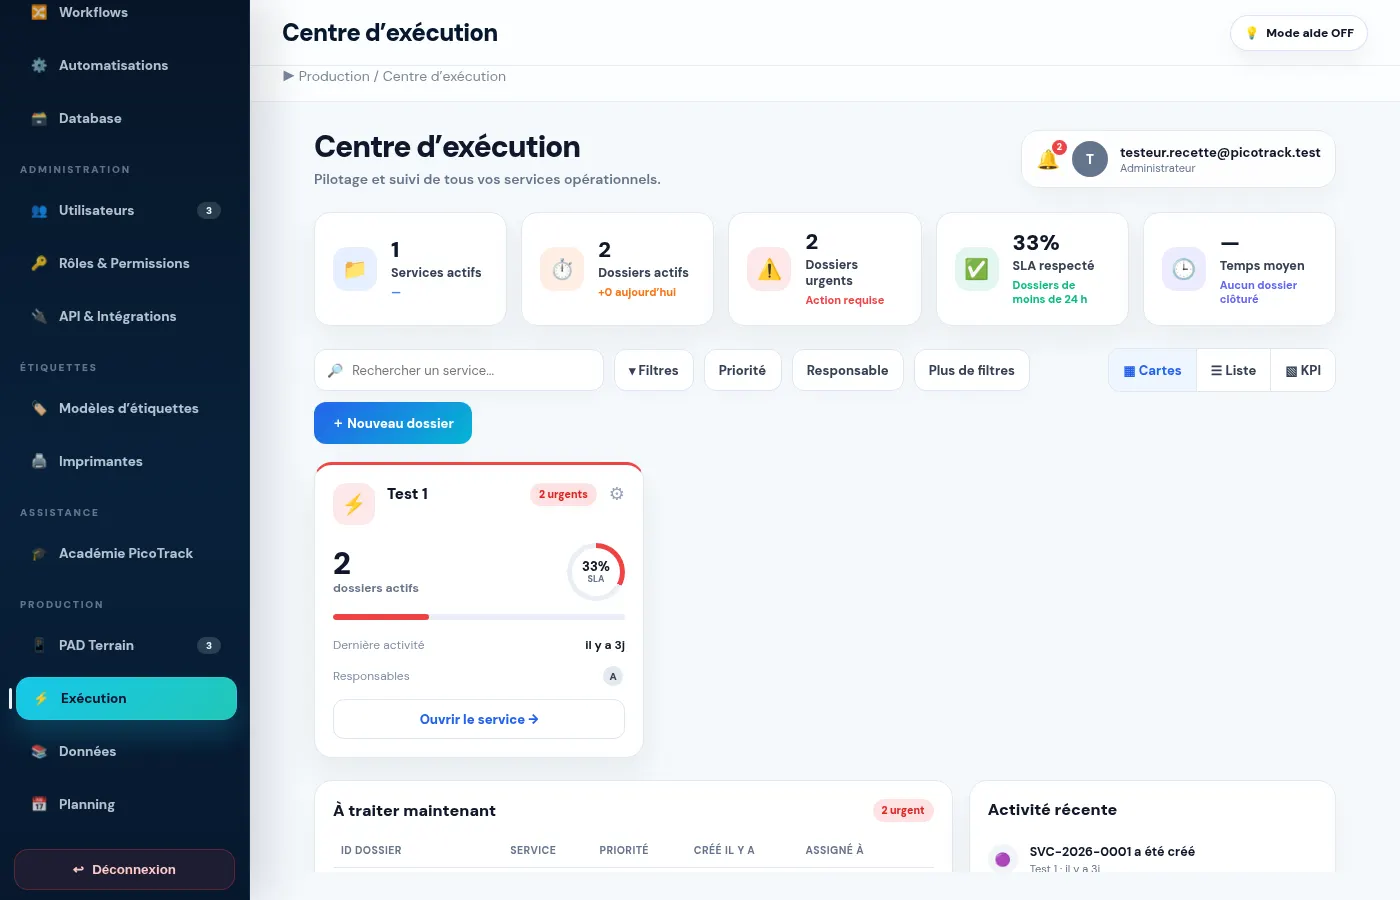
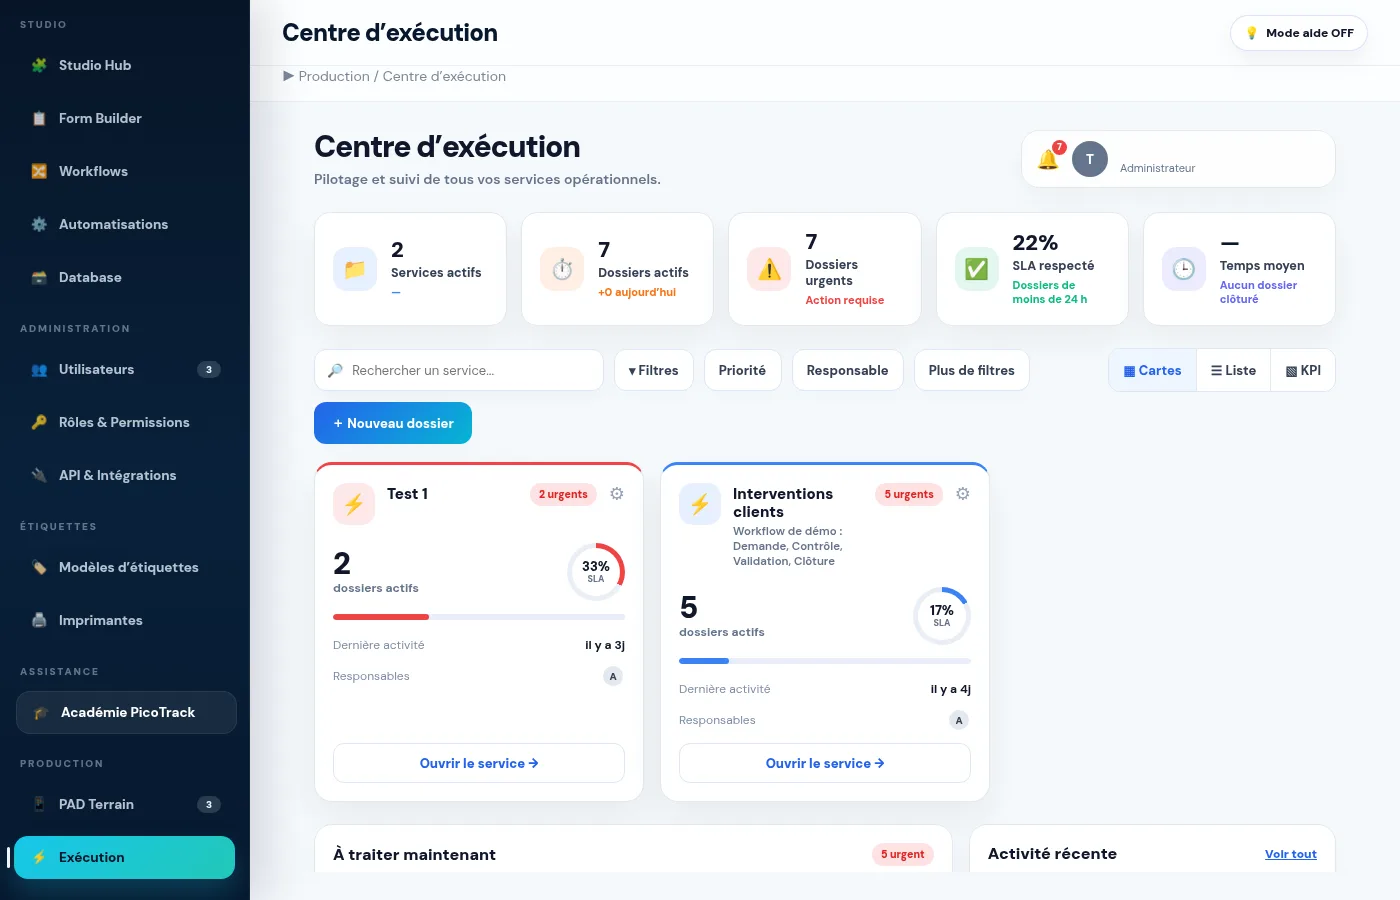
Vitrine: capture workflow 4 étapes, centre d'exécution sans e-mail, hébergeur GitHub Pages

diff --git a/index.html b/index.html
@@ -43,6 +43,7 @@
 <figure><img class="shot" loading="lazy" src="assets/6-pdf-1.webp" alt="Export PDF"><figcaption>L'export PDF d'une saisie.</figcaption></figure>
 <figure><img class="shot" loading="lazy" src="assets/7-planning-mois.webp" alt="Planning mensuel"><figcaption>Le planning opérationnel en vue mois, avec les rendez-vous issus des formulaires.</figcaption></figure>
 <figure><img class="shot" loading="lazy" src="assets/8-centre-execution.webp" alt="Centre d'exécution"><figcaption>Le centre d'exécution : services, dossiers en cours, priorités et activité récente.</figcaption></figure>
+<figure><img class="shot" loading="lazy" src="assets/9-workflow-etapes.webp" alt="Workflow en 4 étapes"><figcaption>Un workflow en 4 étapes (Demande, Contrôle, Validation, Clôture) et les actions possibles à chaque étape.</figcaption></figure>
 <figure><img class="shot" loading="lazy" src="assets/5-academie.webp" alt="Académie"><figcaption>L'Académie, l'aide intégrée.</figcaption></figure>
 </div></div></section>
 
@@ -90,7 +91,7 @@ fetch('https://formspree.io/f/'+FORMSPREE_ID,{method:'POST',headers:{'Content-Ty
 <p>Contact : <a href="mailto:picotfr46400@gmail.com" style="color:#fff">picotfr46400@gmail.com</a></p>
 <details id="mentions"><summary style="cursor:pointer">Mentions légales</summary>
 <p>Éditeur : Clément Picot, particulier, éditeur non professionnel. Contact : <a href="mailto:picotfr46400@gmail.com" style="color:#fff">picotfr46400@gmail.com</a>. Conformément à l'article 6, III, 2 de la loi n° 2004-575 du 21 juin 2004 (LCEN), l'éditeur non professionnel a choisi de ne pas publier son adresse personnelle ; ses coordonnées ont été communiquées à l'hébergeur.</p>
-<p>Hébergeur : Vercel Inc., 440 N Barranca Ave #4133, Covina, CA 91723, États-Unis.</p>
+<p>Hébergeur : GitHub Inc. (GitHub Pages), 88 Colin P. Kelly Jr. Street, San Francisco, CA 94107, États-Unis.</p>
 <p>Données personnelles : ce site n'utilise aucun cookie. Les informations saisies dans le formulaire de demande de démo sont transmises par le service Formspree (Formspree Inc., hébergé aux États-Unis, encadré par des clauses contractuelles types) à l'adresse picotfr46400@gmail.com et servent uniquement à répondre à votre demande. Elles sont conservées au maximum 3 ans après le dernier contact de votre part, puis supprimées. Vous pouvez demander à tout moment l'accès, la rectification ou la suppression de vos données en écrivant à picotfr46400@gmail.com.</p></details>
 <p>© 2026 PicoTrack</p></div></footer>
 </body></html>

diff --git a/assets/style.css b/assets/style.css
@@ -40,4 +40,3 @@ footer{background:#1c2433;color:#c5cbd8;padding:30px 0;font-size:.9rem}
 .brand{display:block;height:auto;width:240px;max-width:60%;margin:0 0 22px;mix-blend-mode:multiply}
 .fbrand{display:flex;align-items:center;gap:10px;font-weight:700;color:#fff;font-size:1.1rem}
 .hlogo{display:block;height:44px;width:auto;mix-blend-mode:multiply}header.top .w{height:68px}html{scroll-behavior:smooth;scroll-padding-top:76px}
-.gallery figure:last-child{grid-column:1/-1;max-width:760px;justify-self:center}
